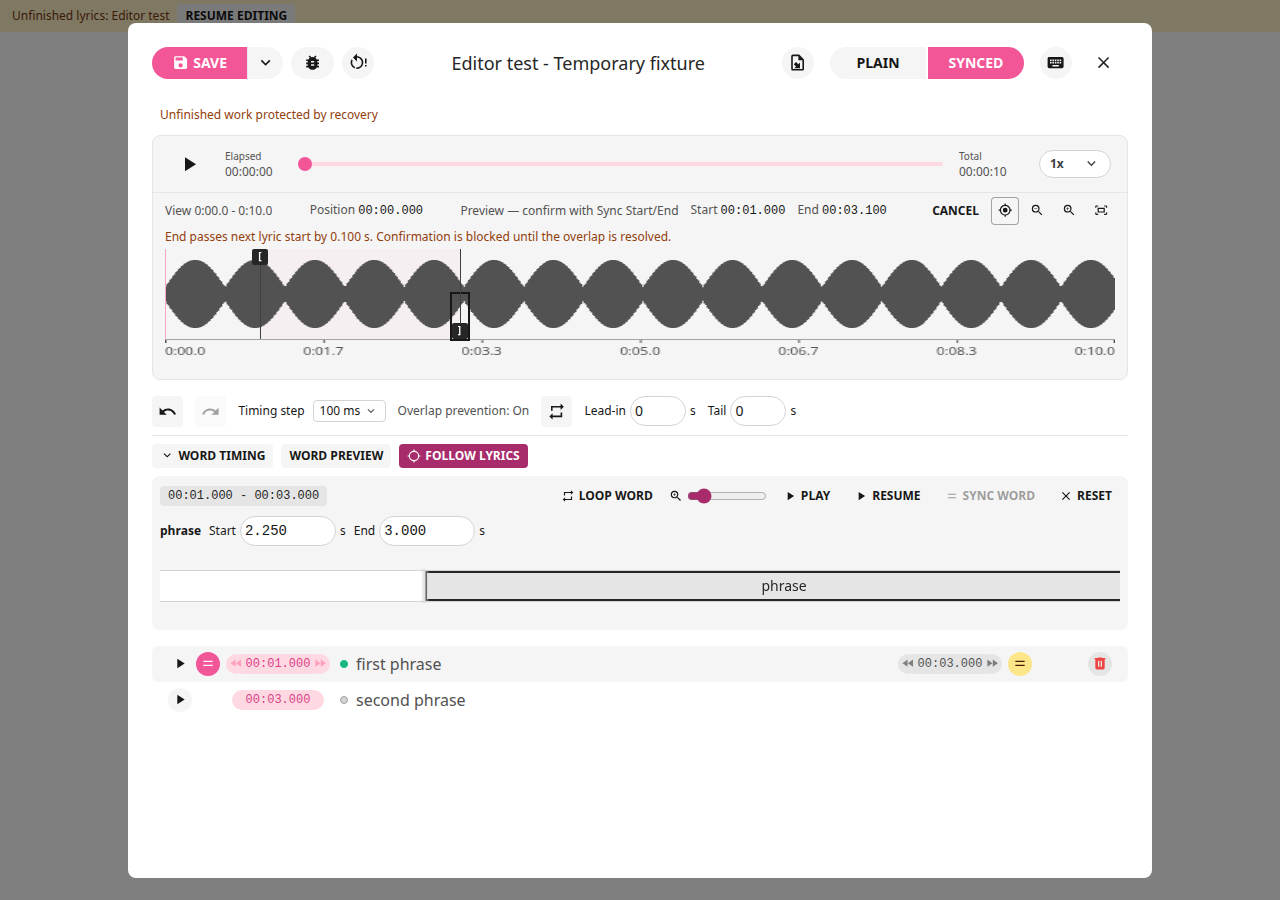
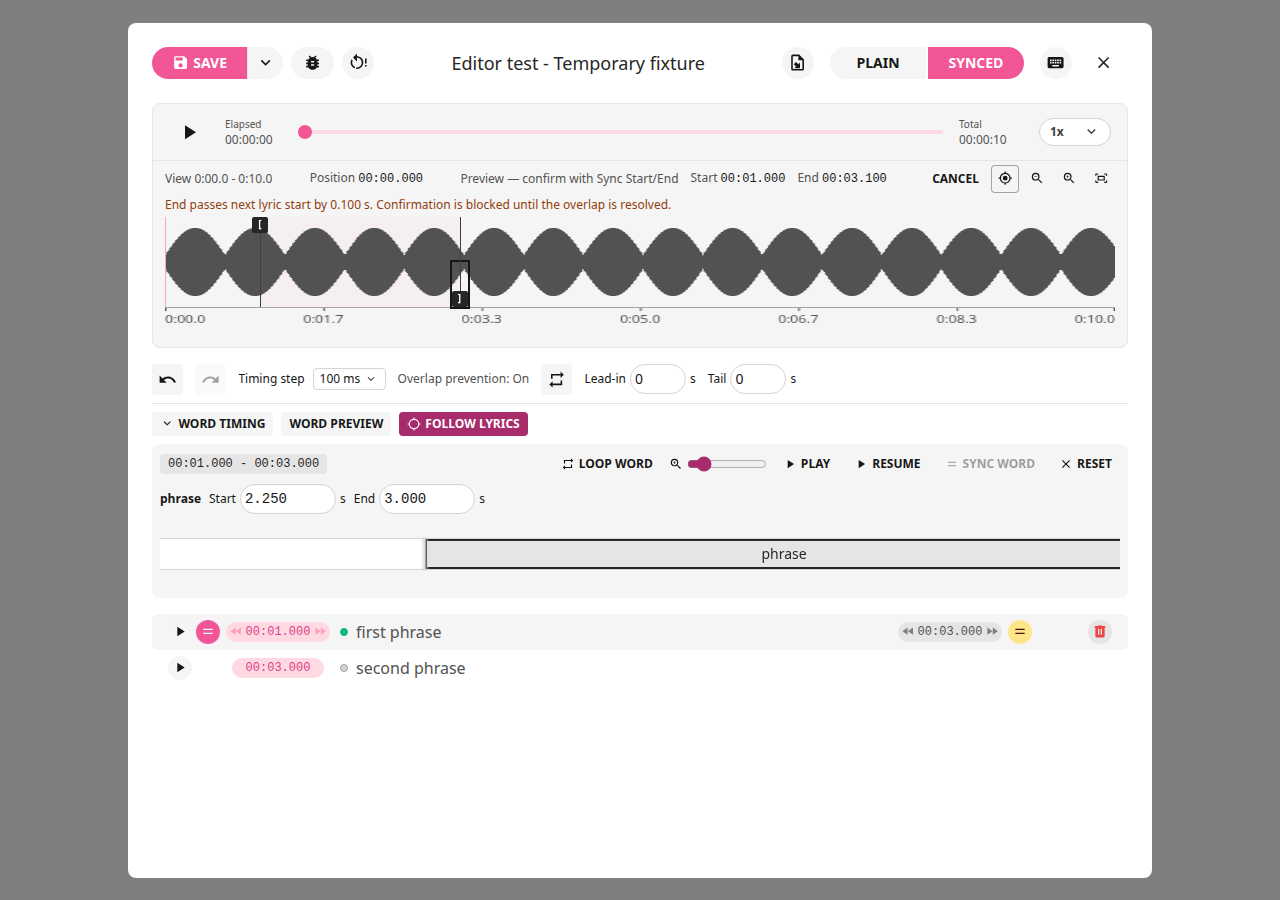
Keep routine editor recovery silent

diff --git a/src/composables/edit-lyrics-v2/useEditLyricsV2Document.js b/src/composables/edit-lyrics-v2/useEditLyricsV2Document.js
@@ -91,7 +91,7 @@ export function useEditLyricsV2Document({
           context: recoveryContext.value,
           source: recoverySource,
         })
-        recoveryStatus.value = 'Unfinished work protected by recovery'
+        recoveryStatus.value = ''
       }
       return true
     } catch (error) {

diff --git a/docs/reviews/2.2.7.md b/docs/reviews/2.2.7.md
@@ -106,3 +106,9 @@ Installed version is still `2.2.6+local.10`; administrator authentication preven
 automatic upgrade. The documented reinstall command installs the reviewed package.
 Previous same-version artifacts are preserved in dated backup directories.
 GitHub publication, creator notification, Windows and AppImage remain held.
+
+Quiet recovery adjustment: routine draft writes no longer show the protected-work
+status text. Errors, conflicts and the main-window Resume notice remain available.
+The storage, cleanup and persistence paths are unchanged. Scoped ESLint and
+486 frontend tests pass; browser checks confirm silent persistence and recovery.
+Current screenshots and the Debian package are refreshed without a version bump.

diff --git a/docs/recovery.md b/docs/recovery.md
@@ -7,8 +7,8 @@ sidecars or the last explicit SQLite save.
 
 ## Continue unfinished work
 
-1. Edit plain text, sentence text/timing or word timing normally. A compact editor
-   message confirms that unfinished work is protected.
+1. Edit plain text, sentence text/timing or word timing normally. Recovery runs
+   silently; storage errors and recovery conflicts still display when needed.
 2. Close the editor or app when needed. Draft writes happen immediately as the
    working document changes; recovery does not depend on a shutdown handler.
 3. Reopen LRCGET. The main window names the latest unfinished song. Choose

diff --git a/LOCAL_CHANGES.md b/LOCAL_CHANGES.md
@@ -568,3 +568,5 @@ It supports TXT/LRC/ELRC and preserves current text/other projects/files.
 Manual saved untimed/empty lyrics are now protected against stale LRC scan
 imports; imported Plain records still upgrade from matching LRC. See the reset
 guide and maintenance review. Version remains 2.2.7.
+
+Recovery maintenance: removed the routine protected-work status text at Rick's request. Recovery continues silently; errors/conflicts remain visible.
